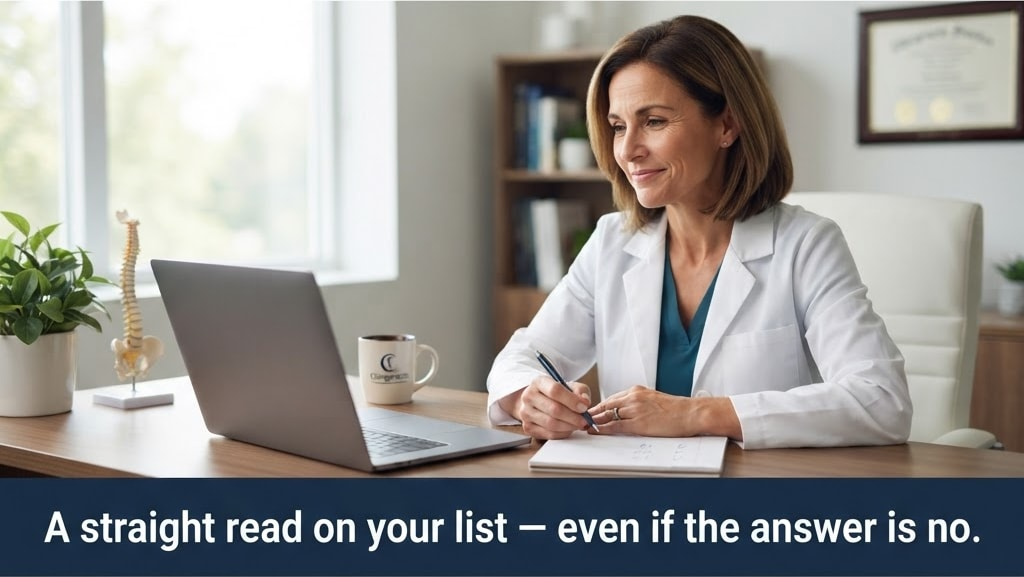
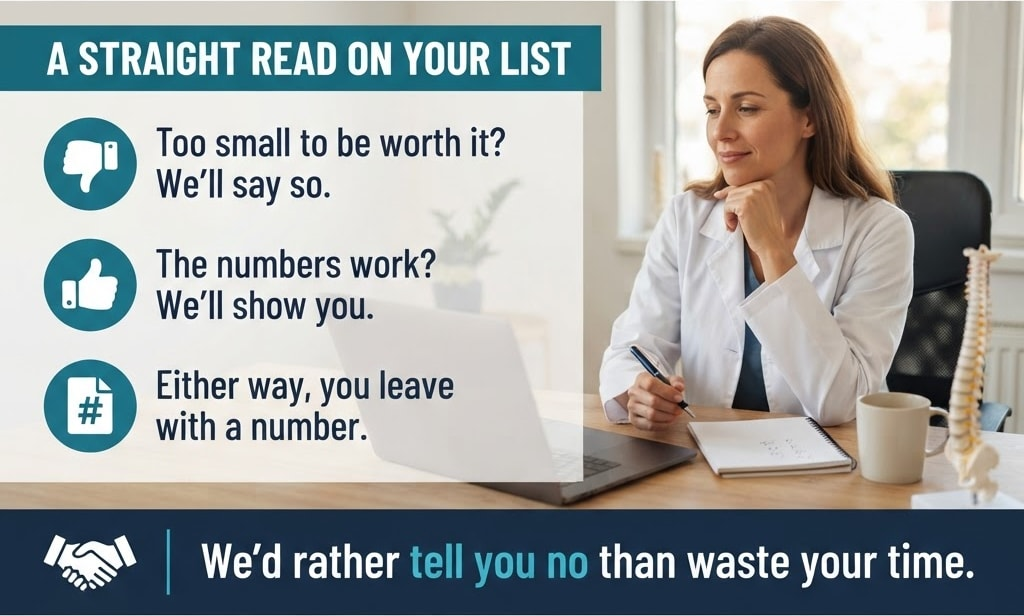
feat: update email template and patient value calculations

diff --git a/lib/email-templates.ts b/lib/email-templates.ts
@@ -516,7 +516,7 @@ ${button('Schedule a Call', LANDING_PAGE_URL)}
             <table role="presentation" width="100%" cellpadding="0" cellspacing="0" style="margin:24px 0;">
               <tr>
                 <td>
-                  <img src="https://hebbkx1anhila5yf.public.blob.vercel-storage.com/Concept_3_Marketing_Dollar_No_Label-hRD6TlNZDpAljxjZxATJhZIlYtOSwo.png" alt="Where would you rather spend your marketing dollar? Acquiring a stranger costs money at every step — ad spend, click, lead, follow-up, appointment — with an uncertain outcome. Reactivating a patient is just a phone call and an appointment: low cost, higher return." width="520" style="width:100%;max-width:520px;height:auto;margin:0 auto;border-radius:6px;" />
+                  <img src="https://hebbkx1anhila5yf.public.blob.vercel-storage.com/Concept_3_Marketing_Dollar_No_Label-hRD6TlNZDpAljxjZxATJhZIlYtOSwo.png" alt="Where would you rather spend your marketing dollar? Acquiring a stranger costs money at every step — ad spend, click, lead, follow-up, appointment �� with an uncertain outcome. Reactivating a patient is just a phone call and an appointment: low cost, higher return." width="520" style="width:100%;max-width:520px;height:auto;margin:0 auto;border-radius:6px;" />
                 </td>
               </tr>
             </table>
@@ -609,19 +609,19 @@ ${button('Schedule a Call', LANDING_PAGE_URL)}
           'Most practice owners have a rough sense that there\'s money in their inactive list. Very few have ever put a number on it. So let\'s put one on it.',
         ),
         p(
-          'Take a practice with 1,000 inactive patient files and a $1,000 average patient value:',
+          'Take a practice with 1,000 inactive patient files and a $2,000 average patient value:',
         ),
         mathBox(
           [
             ['Inactive patient files', '1,000'],
-            ['Reactivated at a conservative 10%', '100 patients'],
-            ['Average patient value', '$1,000'],
+            ['Reactivated at a conservative 5%', '50 patients'],
+            ['Average patient value', '$2,000'],
           ],
           'Recovered revenue',
           '$100,000',
         ),
         p(
-          '<strong>Cut that in half and it still works.</strong> A 5% reactivation rate on the same list is $50,000 — from patients you already earned, with no ad spend attached to them.',
+          '<strong>Cut either number in half and it still works.</strong> Half the rate, or half the patient value, and the same list is still $50,000 — from patients you already earned, with no ad spend attached to them.',
         ),
         p(
           'Now swap in your real numbers. How many inactive files do you have? What is a patient actually worth over the course of care? That second number is usually higher than owners guess, because they think in terms of one visit instead of one plan of care.',
@@ -1073,7 +1073,7 @@ ${button('Schedule a Call', LANDING_PAGE_URL)}
         ),
         image(
           asset('15-staff-turnover.jpg'),
-          'An empty front-desk chair pushed back from the reception counter. The phone is lit with an incoming call, a headset rests beside it, a notebook full of handwritten notes and sticky notes sit by the monitor, and a small box of personal items is packed and ready to carry out. Everything they knew leaves with them.',
+          'If it only works when one person does it, it isn\'t a system. Two panels. When it lives in one person: an empty front-desk chair, a packed box, sticky notes on the monitor. The list was in her head, the words were hers alone, nobody knows who was called. When it lives in the system: a new team member on the phone at the same desk. The list is in the queue, the words are on the screen, every call is on record. The new hire picks up on Monday exactly where the last one left off.',
         ),
         steps([
           [
@@ -1126,7 +1126,7 @@ ${button('Schedule a Call', LANDING_PAGE_URL)}
         p('A patient who lapsed eight months ago and one who lapsed six years ago are not the same opportunity:'),
         image(
           asset('16-depreciating-asset.jpg'),
-          'The asset is real. It\'s also perishable. Five patient files fade along a timeline from 8 months ago to 6 years ago; the last one is a ghosted outline with its phone crossed out. Recently lapsed: contact info still accurate, remembers your team by name, has not established care elsewhere. Long lapsed: number may be disconnected, vague memory of the practice, may have found another provider. Every month, a slice of the list quietly becomes unreachable.',
+          'The asset is real. It\'s also perishable. Every month, a slice of the list quietly becomes unreachable. Five patient folders stand on a timeline from 8 months ago to 6 years ago, fading from solid to a dotted outline with a crossed-out phone. The first two are labeled still reachable, the last two going dark. A list is worth the most the day you decide to use it.',
         ),
         p(
           'This is the real cost of &ldquo;we\'ll get to it next quarter.&rdquo; The list doesn\'t sit still and wait. Each month, a slice of it quietly becomes unreachable.',
@@ -1162,7 +1162,7 @@ ${button('Schedule a Call', LANDING_PAGE_URL)}
         ),
         image(
           asset('17-someone-else.jpg'),
-          'Evening in a living room. A man sits on the edge of the sofa with one hand pressed to his lower back, holding his phone up to a map of search results for chiropractor near me, the top listing marked as an ad. When that moment arrives, whose name comes to mind?',
+          'Evening in a living room. A man sits on the edge of the sofa, one hand pressed to his lower back, holding up his phone to a map of search results with the top listing marked as an ad. Panel: the moment they decide. The pain comes back. They reach for their phone. Someone\'s name comes up first. When that moment arrives, whose name comes to mind?',
         ),
         darkPanel([
           'When that moment arrives, they either think of you — or they search, see an ad, and go somewhere else.',
@@ -1203,7 +1203,7 @@ ${button('Schedule a Call', LANDING_PAGE_URL)}
         p('Here is the actual shape of it:'),
         image(
           asset('18-first-thirty-days.jpg'),
-          'Your first 30 days. No six-month implementation; calls start the same week your list lands. A four-week timeline: Week 1 has three milestones close together, import your list, train your team, start calling. Weeks 2 through 4 are one long stretch labeled build the rhythm, a small block of calls each day. A Day 30 flag at the end reads look at real numbers. No new hires. No hardware. Nothing to rip out.',
+          'Your first 30 days. No six-month implementation; calls start the same week your list lands. Four photo panels in a row: Week 1, import your list. Week 1, train your team. Weeks 2 through 4, build the rhythm. Day 30, look at real numbers. No new hires. No hardware. Nothing to rip out.',
         ),
         steps([
           [
@@ -1263,7 +1263,7 @@ ${button('Schedule a Call', LANDING_PAGE_URL)}
         ]),
         image(
           asset('19-not-your-job.jpg'),
-          'A chiropractor adjusts a patient on the treatment table, fully focused on them. Through the doorway behind, a front-desk team member in a headset works the call list at the reception computer, the on-screen script showing a few large tappable buttons. You treat patients. Your team works the list.',
+          'A chiropractor adjusts a patient on the treatment table, fully focused on them. Through the doorway behind, a front-desk team member in a headset works the call list at the reception computer. Panel: you treat patients, your team works the list. You never touch the queue. Your front desk owns the calls. You just see the numbers. If it needs you to run it, it won\'t last a month.',
         ),
         p('What you actually do is look at a dashboard when you feel like it.'),
         panel([
@@ -1307,7 +1307,7 @@ ${button('Schedule a Call', LANDING_PAGE_URL)}
         p('What the call actually looks like:'),
         image(
           asset('20-straight-answer.jpg'),
-          'A practice owner in a white clinic coat sits at her desk on a relaxed video call, pen in hand, a notepad with a few handwritten numbers beside a coffee mug and a small spine model. A straight read on your list, even if the answer is no.',
+          'A practice owner in a white clinic coat sits at her desk on a relaxed video call, pen in hand, a notepad with a few handwritten numbers beside a coffee mug and a small spine model. Panel: a straight read on your list. Too small to be worth it? We\'ll say so. The numbers work? We\'ll show you. Either way, you leave with a number. We\'d rather tell you no than waste your time.',
         ),
         steps([
           [
@@ -1354,7 +1354,7 @@ ${button('Schedule a Call', LANDING_PAGE_URL)}
         ),
         image(
           asset('21-cash-services.jpg'),
-          'The best margins need the warmest audience. Selling to strangers: trust built from zero, price objection arrives immediately, expensive clicks with uncertain intent, long consideration before anyone commits. Offering to past patients: trust already established, they know your care is worth paying for, no acquisition cost, one conversation from a familiar name. Behind the panels, a red light therapy panel and body-composition scale in a modern wellness office. They\'ve already answered the hardest question: is this practice worth my money?',
+          'The services with the best margins need the warmest audience. Two panels. Selling to strangers, over a laptop showing an ad dashboard: trust built from zero, price objection arrives first, expensive clicks with uncertain intent. Offering to past patients, over a wellness room with a red light panel and body-composition scale: trust already established, they know your care is worth it, no acquisition cost. They\'ve already answered the hardest question: is this practice worth my money?',
         ),
         p(
           'A patient who paid you before and felt it was worth it is dramatically more likely to say yes to an elective service than a stranger who found you in a feed. They\'ve already answered the hardest question — <em>is this practice worth my money?</em>',
@@ -1401,7 +1401,7 @@ ${button('Schedule a Call', LANDING_PAGE_URL)}
         ),
         image(
           asset('22-one-conversation.jpg'),
-          'Count how many patients it takes to pay for this. Three blocks in a row: Hundreds, the patients contacted in a normal month; One to three, covers the investment depending on your case average; Everything after, margin. Break-even: one to three patients.',
+          'Count how many patients it takes to pay for this. Not hundreds. Not dozens. Three cards in a row: Hundreds, contacted in a normal month. 1 to 3, covers the investment. Everything after, margin. Break-even: one to three patients. Everything after that is yours.',
         ),
         p(
           'And once you\'re past break-even, every appointment after it is recovered revenue on a list you already owned.',
@@ -1431,7 +1431,7 @@ ${button('Schedule a Call', LANDING_PAGE_URL)}
         ),
         image(
           asset('23-the-call-itself.jpg'),
-          'A practice owner at her desk on a relaxed video call, headset on, coffee beside the laptop, a notepad with one number circled. Three questions. One number. A straight answer.',
+          'A practice owner at his desk on a relaxed video call, headset on, coffee beside the laptop, a notepad with one number circled. Panel: what happens on the call. Three questions about your practice. One number: your break-even. A straight answer, either way. No pitch deck. Just your numbers.',
         ),
         panel([
           'We ask how many inactive patients you have, roughly what a plan of care is worth in your office, and who on your team would make the calls. From those three answers we work out your break-even &mdash; how many patients have to come back before this pays for itself &mdash; and tell you whether it makes sense for your practice. If it doesn\'t, we say so.',
@@ -1465,7 +1465,7 @@ ${button('Schedule a Call', LANDING_PAGE_URL)}
         p('Ours runs differently. Bring three numbers &mdash; rough is fine &mdash; and the call produces a decision.'),
         image(
           asset('24-three-numbers.jpg'),
-          'Three cards, Inactive Patients, Case Average and Who Calls, feed an arrow into a teal card labeled Your Break-Even. Rough is fine. The call does the math.',
+          'Three numbers turn a maybe into a decision. Bring these to the call; rough is fine. Three cards, Inactive Patients, Case Average and Who Calls, feed an arrow into a teal card labeled Your Break-Even with a calculator. Rough is fine. The call does the math.',
         ),
         steps([
           [
@@ -1512,7 +1512,7 @@ ${button('Schedule a Call', LANDING_PAGE_URL)}
         ),
         image(
           asset('25-anatomy-of-a-call.jpg'),
-          'Six connected steps in a row: Opener, Their Concern, Making It Real, The Review, Recommendation, Objections. Every word already on the screen.',
+          'What your front desk actually says. Six steps, every word already on the screen. Over a front desk with a tablet showing the script: Opener, Their Concern, Making It Real, The Review, Recommendation, Objections. Nobody improvises. The next line is always on the screen.',
         ),
         steps([
           [
@@ -1576,7 +1576,7 @@ ${button('Schedule a Call', LANDING_PAGE_URL)}
         ),
         image(
           asset('26-same-skill.jpg'),
-          'A front-desk team member smiles on the phone at a bright chiropractic reception desk, the appointment calendar open on her screen, a patient checking in behind her. Same skill. Different list.',
+          'Same skill. Different list. Two panels showing the same front-desk team member at the same desk with the same smile. What she does now: answers when patients call in, books them into the schedule. What she does with the list: calls patients who already know her, books them into the schedule. The skill your team already has does the rest.',
         ),
         p(
           'The only difference is who\'s on the other end: a patient who hasn\'t been in for a while instead of one who just called. That patient needs a slightly different conversation &mdash; a warm reason for the call, a way to talk about what\'s been bothering them, an easy path back in.',
@@ -1613,7 +1613,7 @@ ${button('Schedule a Call', LANDING_PAGE_URL)}
         p('In the script, that stall is a button.'),
         image(
           asset('27-think-about-it.jpg'),
-          'A tablet screen shows four tappable objection buttons: I need to think about it, highlighted in teal; Just send me some info; It\'s too expensive; I\'m considering another option. An arrow leads to a card labeled Scripted Response. The stall is a button.',
+          'The four words every caller dreads. A front-desk team member on the phone reaches for a tablet. Panel: what the patient says. Four tappable buttons: I need to think about it, highlighted in teal; Just send me some info; It\'s too expensive; I\'m considering another option. Tap it, the response appears. The stall is a button. The answer is already written.',
         ),
         panel([
           '&ldquo;That\'s completely fair. Can I ask &mdash; what part would you want to think over? The cost, the timing, or just being sure it\'s worth it?&rdquo;',
@@ -1657,7 +1657,7 @@ ${button('Schedule a Call', LANDING_PAGE_URL)}
         p('The list wasn\'t the problem. <strong>The pile was.</strong>'),
         image(
           asset('28-never-eight-hundred.jpg'),
-          'On the left, a dense grid of 800 patient files. An arrow narrows into a clean card on the right labeled Calls Due Now, 7, with seven rows, and a smaller line beneath it: 793 in reserve. Nobody can face 800. Everybody can make 7.',
+          'The list is never empty and never overwhelming. Two panels. The pile: a stressed team member beside a monitor of endless rows and a stack of printouts. 800 names, all at once. Nobody knows where to start, so nobody starts. The queue: a relaxed team member on the phone with a short list on screen. 7 calls due now. Work the seven, then done. 793 wait in reserve. Nobody can face 800. Everybody can make 7.',
         ),
         p('Here\'s how the program handles the same 800 names:'),
         steps([
@@ -1714,7 +1714,7 @@ ${button('Schedule a Call', LANDING_PAGE_URL)}
         ),
         image(
           asset('29-what-we-wont-do.jpg'),
-          'What the call is not. Three gray cards, each marked with an X: Pressure, A Countdown, Deciding on the Phone. Below them a single teal card with a check: A Number You Can Hold Us To. Pick a time. Bring your skepticism.',
+          'What the call is not. Pick a time. Bring your skepticism. Four cards in a row. Three gray, each marked with an X: Pressure, A Countdown, Deciding on the Phone. One teal card with a check: A Number You Can Hold Us To. No pressure, no clock, no deciding on the phone. Just a number.',
         ),
         checks([
           '<strong>We won\'t pressure you.</strong> If the numbers don\'t work for your practice, we\'ll be the first to say so.',
@@ -1752,7 +1752,7 @@ ${button('Schedule a Call', LANDING_PAGE_URL)}
         ),
         image(
           asset('30-new-associate.jpg'),
-          'A young associate chiropractor stands in a clean, quiet treatment room studying a mostly open schedule on a tablet, while shelves of patient folders fill the wall beside him. The warmest patients for a new provider already know the practice.',
+          'A young associate chiropractor stands in a clean, quiet treatment room studying a mostly open schedule on a tablet, while shelves of patient folders fill the wall beside him. Panel: an empty schedule, a full filing cabinet. A new provider with open hours. Hundreds of files who already trust the practice. One phone call, not a campaign. The warmest patients for a new provider already know the practice.',
         ),
         panel([
           'A past patient doesn\'t need to be sold on the practice. They need to be told the practice has room, and given a reason to come in. <strong>That\'s a phone call, not a campaign.</strong>',
@@ -1797,7 +1797,7 @@ ${button('Schedule a Call', LANDING_PAGE_URL)}
         ),
         image(
           asset('31-three-endings.jpg'),
-          'A phone icon labeled Every Call branches into three paths: Scheduled, on the books; Not Yet, back in 3 months; No Answer, retry in 4 to 7 days. Nothing lives in anyone\'s memory.',
+          'Every call ends one of three ways. What happens next is already decided. A phone icon labeled Every Call branches into three cards: Scheduled, on the books; Not Yet, back in 3 months; No Answer, retry in 4 to 7 days. Nothing falls through, because nothing lives in anyone\'s memory.',
         ),
         steps([
           [
@@ -1856,7 +1856,7 @@ ${button('Schedule a Call', LANDING_PAGE_URL)}
         ),
         image(
           asset('32-ask-your-front-desk.jpg'),
-          'A chiropractor leans on the reception counter asking a question; the front-desk team member pauses mid-shrug with a friendly, uncertain expression, monitor glowing beside her. How many patients haven\'t we seen in over a year?',
+          'A chiropractor leans on the reception counter asking a question; the front-desk team member pauses mid-shrug with a friendly, uncertain expression. Panel: a one-question test. How many patients haven\'t we seen in over a year? If the answer is a shrug, that\'s the whole point. One question tells you whether the list is being worked.',
         ),
         p(
           'The honest answer is usually a pause, a guess, and &ldquo;I could probably run a report.&rdquo; That isn\'t a criticism of your team. It\'s just not a number anyone looks at &mdash; which is exactly why it\'s worth so much.',
@@ -1895,7 +1895,7 @@ ${button('Schedule a Call', LANDING_PAGE_URL)}
         ),
         image(
           asset('33-why-your-team-calls.jpg'),
-          'Split image. Left, labeled A Call Center: rows of gray cubicles and headsets under fluorescent light. Right, labeled Your Front Desk: a warm chiropractic reception desk with a team member on the phone. Trust doesn\'t transfer to a stranger.',
+          'The call has to come from your office. Two panels. A call center, rows of gray cubicles under fluorescent light: a stranger\'s voice, reading from a card, has never seen your office. Your front desk, a warm chiropractic reception with a team member on the phone: a name they recognize, knows the practice inside out, can book them on the spot. Trust doesn\'t transfer to a stranger.',
         ),
         compare(
           'A call center',
@@ -1942,7 +1942,7 @@ ${button('Schedule a Call', LANDING_PAGE_URL)}
         ),
         image(
           asset('34-month-three.jpg'),
-          'A three-stage timeline: Month 1, first attempts; Month 2, follow-ups arrive; Month 3, the rhythm. A teal line rises across the three stages as the mix shifts from cold calls to warm follow-ups. Month one is a project. Month three is a rhythm.',
+          'What month three looks like. The work per day doesn\'t grow; the results do. Three photo panels of the same front-desk team member: Month 1, first attempts. Month 2, follow-ups arrive. Month 3, the rhythm, with a patient checking in behind her. A teal line rises across the three. Month one is a project. Month three is a rhythm.',
         ),
         steps([
           [
@@ -1996,7 +1996,7 @@ ${button('Schedule a Call', LANDING_PAGE_URL)}
         ),
         image(
           asset('35-dont-decide-yet.jpg'),
-          'A desk planner open on a wooden desk in morning light, one time slot circled in teal marker, a pen resting across the page. Booking isn\'t a yes.',
+          'A desk planner open on a wooden desk in morning light, one time slot circled in teal marker, a pen resting across the page. Panel: booking isn\'t a yes. 1, book the call. 2, hear your number. 3, then decide. Decide after the call, not before it.',
         ),
         p(
           'So here\'s a different order. Don\'t decide. Book the call. Bring your list size and your case average. Let us work out the break-even in front of you. <strong>Then</strong> decide.',
@@ -2035,7 +2035,7 @@ ${button('Schedule a Call', LANDING_PAGE_URL)}
         ),
         image(
           asset('36-natural-not-improvised.jpg'),
-          'A front-desk team member in a headset mid-conversation, relaxed and smiling, a tablet propped on the desk showing a script with a few large buttons, a plant and natural light beside her. Sounds natural. Isn\'t improvised.',
+          'A front-desk team member in a headset mid-conversation, relaxed and smiling, a tablet propped on the desk showing a script with a few large buttons. Panel: sounds natural, isn\'t improvised. The screen keeps it on track. The caller keeps it human. The patient hears a conversation. Every line is written. None of it sounds read.',
         ),
         panel([
           'The script isn\'t read aloud. Your caller sees the next line and the buttons for what the patient might say, glances down, and talks like a person. <strong>The screen keeps the conversation on track; the caller keeps it human.</strong>',
@@ -2075,7 +2075,7 @@ ${button('Schedule a Call', LANDING_PAGE_URL)}
         cta('Already past all of them? Skip straight to the calendar:', 'Skip to the Calendar'),
         image(
           asset('37-every-reason-answered.jpg'),
-          'Six cards, each with a teal check: No Time, Tried It, They Moved On, Seems Desperate, Not Now, Will It Pay. Bring your reason. We\'ll answer it.',
+          'Every reason not to book, answered. Bring yours; we\'ll answer it on the call. Six cards, each with a teal check: No Time, Tried It, They Moved On, Seems Desperate, Not Now, Will It Pay. Still on the fence? Every reason has an answer.',
         ),
         steps([
           [
@@ -2131,7 +2131,7 @@ ${button('Schedule a Call', LANDING_PAGE_URL)}
         greet,
         image(
           asset('38-four-sentences.jpg'),
-          'Overhead view of a quiet morning desk: a coffee, a phone face-down, and a notepad with four short handwritten lines beside a pen. Four sentences. One call.',
+          'Overhead view of a quiet morning desk: a coffee, a phone face-down, a pen, a blank notepad. Panel: the whole thing in four sentences. 1, your list is an asset. 2, your team can work it. 3, the system does the remembering. 4, one to three patients covers it. Four sentences. One call.',
         ),
         p('You have hundreds of past patients who liked you and drifted.'),
         p(
@@ -2168,7 +2168,7 @@ ${button('Schedule a Call', LANDING_PAGE_URL)}
         cta('If you\'re ready now, this is step one:', 'Start With the Form'),
         image(
           asset('39-after-you-book.jpg'),
-          'Four connected steps: Pick a Time, Pull 3 Numbers, The Call, Your Break-Even. No surprises. Just your numbers.',
+          'What happens after you book. No surprises, just your numbers. Four photo panels in a row: 1, pick a time. 2, pull 3 numbers. 3, the call. 4, your break-even. Four steps. You already know what each one looks like.',
         ),
         steps([
           [
@@ -2216,7 +2216,7 @@ ${button('Schedule a Call', LANDING_PAGE_URL)}
         ),
         image(
           asset('40-where-this-leaves-you.jpg'),
-          'A bright chiropractic lobby, busy in a good way: patients of different ages checking in and waiting, the front desk in the middle of it, morning light through the windows. A full schedule from a list you already own.',
+          'A bright chiropractic lobby, busy in a good way: patients of different ages checking in and waiting, the front desk in the middle of it, morning light through the windows. Panel: the whole case. The list is real. Your team can do it. The system remembers. The math is small. The list doesn\'t wait. A full schedule from a list you already own.',
         ),
         p(
           '<strong>The list is real.</strong> Hundreds of people who chose you once, paid you, and drifted for reasons that had nothing to do with you. Many haven\'t found another provider, and a call from a familiar office is the permission plenty of them were waiting for.',
